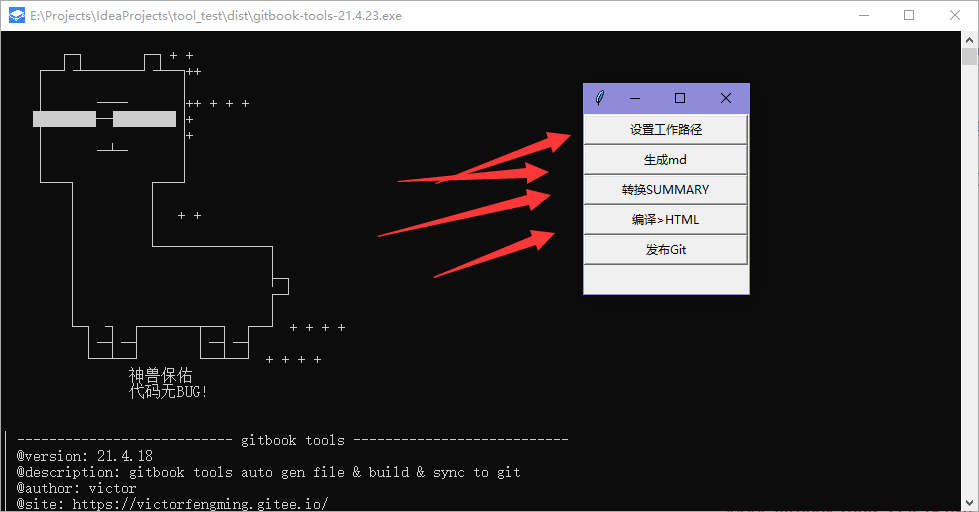
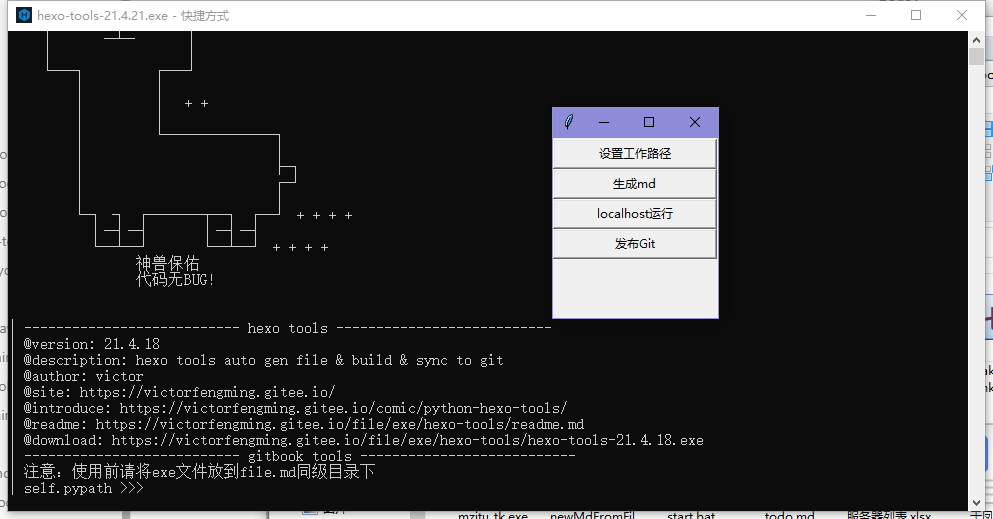
fix bug

diff --git a/source/_posts/comic/python-hexo-tools.md b/source/_posts/comic/python-hexo-tools.md
@@ -4,7 +4,7 @@ cover: "/img/lynk/84.jpg"
 date:       2021-04-17
 author:     "victor"
 tags:
-	- gitbook
+	- hexo
 	- Python
 	- node
 ---
@@ -400,18 +400,18 @@ from hexo_tools import HexoTool
 
 | --------------------------- HexoTool tools ---------------------------
 | @version: 21.4.23
-| @description: gitbook tools auto gen file & build & sync to git
+| @description: hexo tools auto gen file & build & sync to git
 | @author: victor
 | @site: https://victorfengming.gitee.io/
-| @introduce: https://victorfengming.gitee.io/comic/python-gitbook-tools/
-| @readme: https://victorfengming.gitee.io/file/exe/gitbook-tools/readme.md
-| @download: https://victorfengming.gitee.io/file/exe/gitbook-tools/gitbook-tools-21.4.21.exe
-| --------------------------- gitbook tools ---------------------------
+| @introduce: https://victorfengming.gitee.io/comic/python-hexo-tools/
+| @readme: https://victorfengming.gitee.io/file/exe/hexo-tools/readme.md
+| @download: https://victorfengming.gitee.io/file/exe/hexo-tools/hexo-tools-21.4.21.exe
+| --------------------------- hexo tools ---------------------------
 | TODO : 
 |     1. 递归扫描md文件,根据相对路径 生成`SUMMARY.md`
 |     2. cmd 日志 放入 tk页面 
 |     5. gitee pages auto update by chrome tools 
-| --------------------------- gitbook tools ---------------------------
+| --------------------------- hexo tools ---------------------------
 
 '''
 class Tk_gui():
@@ -541,7 +541,7 @@ print("| @site: https://victorfengming.gitee.io/")
 print("| @introduce: https://victorfengming.gitee.io/comic/python-hexo-tools/")
 print("| @readme: https://victorfengming.gitee.io/file/exe/hexo-tools/readme.md")
 print("| @download: https://victorfengming.gitee.io/file/exe/hexo-tools/hexo-tools-21.4.21.exe")
-print("| --------------------------- gitbook tools ---------------------------")
+print("| --------------------------- hexo tools ---------------------------")
 print("| 注意：使用前请将exe文件放到file.md同级目录下")
 # print("| ========================================")
 # print(os.path.isfile("E:\\Projects\\PycharmProjects\\untitled\\newFiletest\\12.md"))

diff --git a/source/_posts/comic/python-gitbook-tools.md b/source/_posts/comic/python-gitbook-tools.md
@@ -1,7 +1,7 @@
 ---
 title: 'Python实现GitBook工具'
-cover: "/img/lynk/84.jpg"
-date:       2021-04-17
+cover: "/img/lynk/67.jpg"
+date:       2021-04-16
 author:     "victor"
 tags:
 	- gitbook
